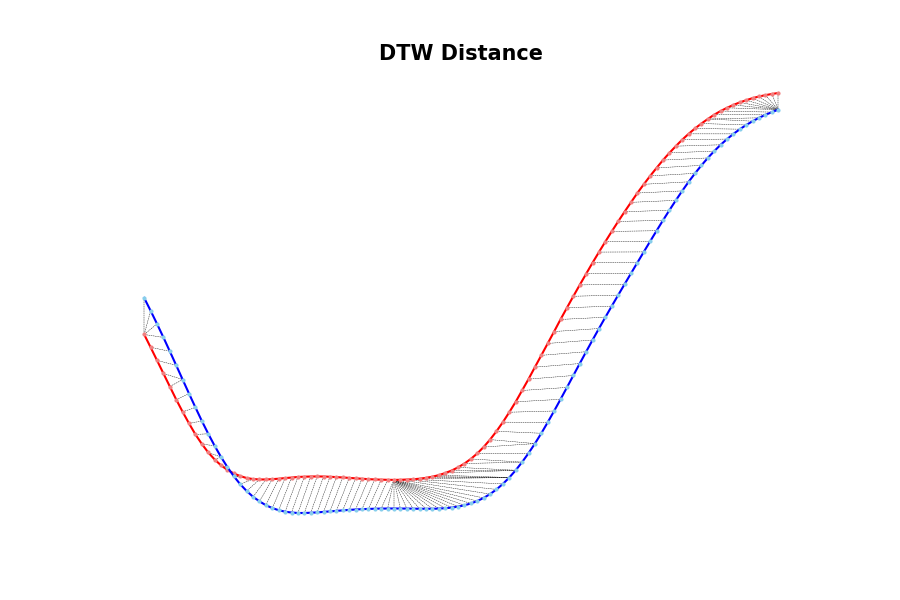
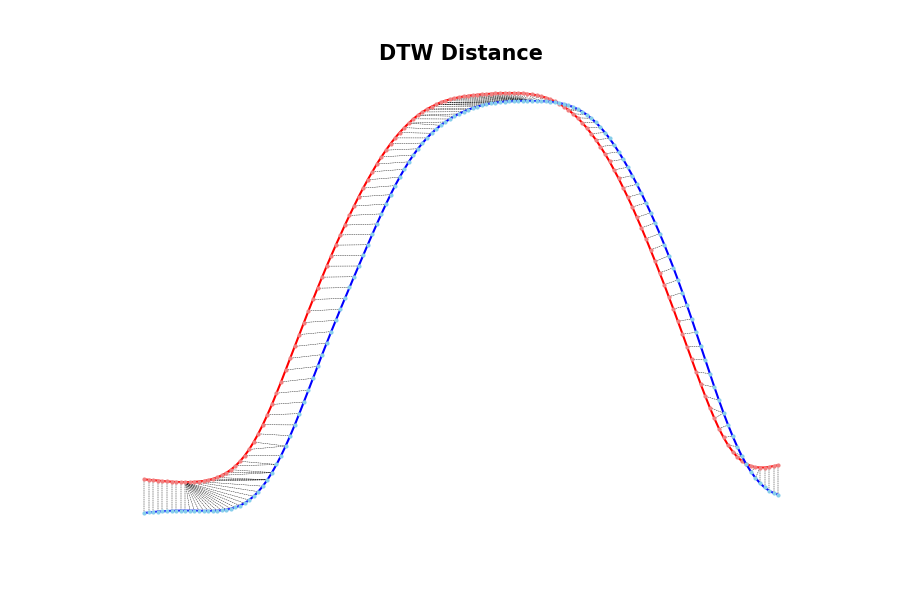
Small changes to DTW.

Changed region(s): [[0.1556, 0.15, 0.8711, 0.87]]

diff --git a/Testing_DTW/main.py b/Testing_DTW/main.py
@@ -1,8 +1,9 @@
 
 from helpers import run_IK_compare
 from helpers import read_in_mot_as_numpy
-from helpers import compute_euclidean_distance_matrix
+from helpers import compute_distance_matrix
 from helpers import compute_accumulated_cost_matrix
+from helpers import my_dist_func
 
 import pandas as pd
 import numpy as np
@@ -17,17 +18,17 @@ mpl.rcParams['figure.dpi'] = 150
 savefig_options = dict(format="png", dpi=150, bbox_inches="tight")
 
 # Computation packages
-from scipy.spatial.distance import euclidean
 from fastdtw import fastdtw
 
-
+prec = 0
+np.set_printoptions(suppress=True,precision=prec)
 
 # Quick Settings
 subject_code = 'P3'
 trial_name = 'JA_Fast'
 calibration_name = 'METHOD2_Alt_self'
-start_time = 15.5
-end_time = 16.5
+start_time = 15.8
+end_time = 17.2
 trim_bool = True
 IMU_type = 'Real'
 parent_dir = r'C:\Users\r03mm22\Documents\Protocol_Testing\IMU_Repo\Testing_DTW'
@@ -35,7 +36,7 @@ data_dir = os.path.join(parent_dir, 'RawData')
 results_dir = os.path.join(parent_dir, "Results")
 
 # Use my functions for printing time-series JAs and calculating RMSEs and Pearson's R
-# run_IK_compare(subject_code, trial_name, calibration_name, start_time, end_time, trim_bool, IMU_type)
+run_IK_compare(subject_code, trial_name, calibration_name, start_time, end_time, trim_bool, IMU_type)
 
 
 # Read in same data as np arrays, ready for use in new code
@@ -44,6 +45,8 @@ OMC_angle_np, IMU_angle_np = read_in_mot_as_numpy(subject_code, trial_name, cali
 x = OMC_angle_np
 y = IMU_angle_np
 
+print(x[:10])
+print(y[:10])
 
 
 
@@ -64,22 +67,66 @@ ax.plot(x, '-ro', label='x', linewidth=1, markersize=1, markerfacecolor='lightco
 ax.plot(y, '-bo', label='y', linewidth=1, markersize=1, markerfacecolor='skyblue', markeredgecolor='skyblue')
 ax.set_title("Euclidean Distance", fontsize=10, fontweight="bold")
 
-plt.show()
+# plt.show()
 fig.savefig(results_dir + "\\" + "Original_data_dist_plot.png")
 
 
 
 
 """" CALCUALTE THE COST MATRIX """
-#
+
+# Average distance before correction:
+av_DIST = np.mean(abs(x-y))
+print("Average  distance before correction: ", av_DIST)
+
+# Run the fastdtw() function
 dtw_distance, warp_path = fastdtw(x, y)
-RMSE = (dtw_distance/len(warp_path))**0.5
 print("DTW distance: ", dtw_distance)
-# print("Warp path: ", warp_path)
-print("RMSE equivalent: ", RMSE)
+print("Warp path: ", warp_path)
+
+# Use custom functions to inspect results
+dist_matrix = compute_distance_matrix(x, y)
 cost_matrix = compute_accumulated_cost_matrix(x, y)
 
 
+
+""" MY OWN CALCS FOR VERIFICATION """
+
+# # Distance matrix
+# print("Distance matrix: ")
+# print(np.flipud(dist_matrix[:10, :10]))
+#
+# # Get the list of distances using the warp path
+# dist_matrix_list = np.zeros((len(warp_path)))
+# for i in range(len(warp_path)):
+#     a = warp_path[i][0]
+#     b = warp_path[i][1]
+#     dist_matrix_list[i] = dist_matrix[a, b]
+#
+# print("Distance matrix list: ", dist_matrix_list.round(decimals=0))
+# print("List mean: ", np.mean(dist_matrix_list))
+#
+#
+# # Cost matrix
+# print("Cost matrix: ")
+# print(np.flipud(cost_matrix[40:50, 40:50]))
+#
+# # Get the list of cost matrix values using the warp path
+# cost_dist_matrix_list = np.zeros((len(warp_path)))
+# for i in range(len(warp_path)):
+#     a = warp_path[i][0]
+#     b = warp_path[i][1]
+#     cost_dist_matrix_list[i] = cost_matrix[a, b]
+#
+# print(cost_dist_matrix_list.round(decimals=0))
+#
+# print("Cost matrix list: ", cost_dist_matrix_list.round(decimals=0))
+# print("List mean: ", np.mean(cost_dist_matrix_list))
+
+
+
+
+""" PLOT THE COST MATRIX """
 
 fig, ax = plt.subplots(figsize=(6, 4))
 ax = sbn.heatmap(cost_matrix, annot=False, square=True, cmap="YlGnBu", ax=ax)
@@ -95,7 +142,7 @@ path_yy = [y+0.5 for y in path_y]
 
 ax.plot(path_xx, path_yy, color='blue', linewidth=1, alpha=0.2)
 
-plt.show()
+# plt.show()
 fig.savefig(results_dir + "\\" + "Cost_matrix_heat_map.png")
 
 
@@ -114,5 +161,5 @@ ax.plot(y, '-bo', label='y', linewidth=1, markersize=1, markerfacecolor='skyblue
 
 ax.set_title("DTW Distance", fontsize=10, fontweight="bold")
 
-plt.show()
+# plt.show()
 fig.savefig(results_dir + "\\" + "Data_dist_plot_new_connections.png")

diff --git a/Testing_DTW/helpers.py b/Testing_DTW/helpers.py
@@ -6,7 +6,11 @@ import pandas as pd
 from scipy.stats import pearsonr
 
 
-def compute_euclidean_distance_matrix(x, y) -> np.array:
+def my_dist_func(x_i, y_j):
+    dist = abs(x_i - y_j)
+    return dist
+
+def compute_distance_matrix(x, y) -> np.array:
     """Calculate distance matrix
     This method calcualtes the pairwise Euclidean distance between two sequences.
     The sequences can have different lengths.
@@ -14,14 +18,14 @@ def compute_euclidean_distance_matrix(x, y) -> np.array:
     dist = np.zeros((len(y), len(x)))
     for i in range(len(y)):
         for j in range(len(x)):
-            dist[i,j] = (x[j]-y[i])**2
+            dist[i,j] = abs(x[j]-y[i])
     return dist
 
 
 def compute_accumulated_cost_matrix(x, y) -> np.array:
     """Compute accumulated cost matrix for warp path using Euclidean distance
     """
-    distances = compute_euclidean_distance_matrix(x, y)
+    distances = compute_distance_matrix(x, y)
 
     # Initialization
     cost = np.zeros((len(y), len(x)))
